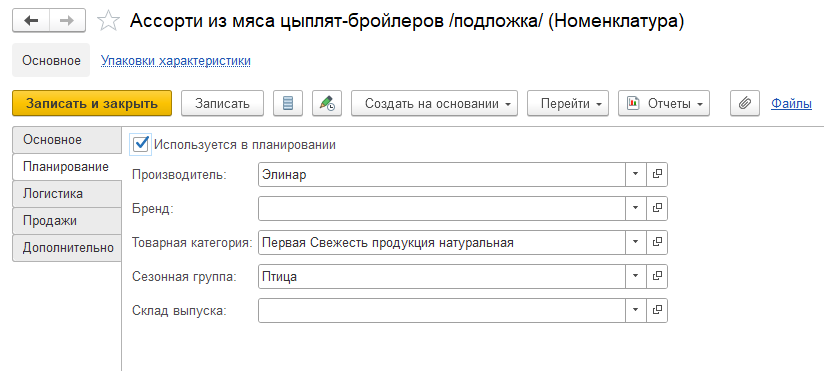
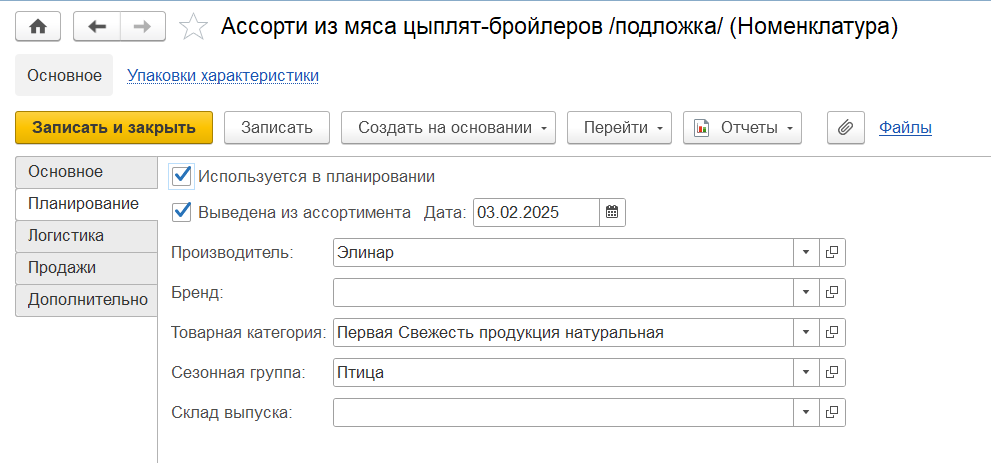
Изменения_1

Changed region(s): [[0.0, 0.2372, 1.0, 0.9191], [0.0, 0.0, 0.9102, 0.0889], [0.0303, 0.1482, 0.3337, 0.2075]]

diff --git a/docs/SCP/ShipmentRequirementsPlanning/NeedsPlanning.md b/docs/SCP/ShipmentRequirementsPlanning/NeedsPlanning.md
@@ -10,7 +10,9 @@
 
 Дата выпуска - это минимально  рекомендованная дата выпуска продукции с учетом срока годности номенклатуры и %ОСГ контрагента.
 
-> Дата выпуска вычисляется по формуле: дата выпуска = дата отгрузки - (100% - %ОСГ контрагента) * срок годности номенклатуры.
+> Дата выпуска вычисляется по формуле: Дата выпуска = дата отгрузки - срок годности + сдвиг даты, 
+
+> где Сдвиг даты = округлить(срок годности * (%ОСГ/100)).
 
  Для каждой номенклатуры будут заполнены поля:
 
@@ -22,7 +24,7 @@
     - По статистике с вытеснением заказами
 
 - Пред. заказы – заполняются на основании документов **"Предварительные заказы"**
-- Заказы – заполняются на основании документов **"Заказы клиентов"**
+- Заказы – заполняются на основании документов **"Заказы клиентов"** (заказы со статусом "Закрыт" не учитываются)
 
 [![2][2]][2]
 
@@ -41,7 +43,7 @@
 - Округлить план до кратности
 - Установить конкретное значение
 
-После выбора варианта заполнения нужно выбрать строки для заполнения, а затем нажать кнопку **"Выполнить"**, будет заполнена колонка **"План"** в таблице.
+После выбора варианта заполнения нужно выбрать строки для заполнения, а затем нажать кнопку **"Выполнить"**, будет заполнена колонка **"План"** в таблице. Если в карточке номенклатуры была указана кратность, а число в колонке "План" выходит не кратным, то оно всегда округляется по кратности номенклатуры в большую сторону. 
 
 [![3][3]][3]
 

diff --git a/docs/CommonInformation/Nomenclature.md b/docs/CommonInformation/Nomenclature.md
@@ -26,6 +26,7 @@
 ![2020-05-28_1239](Nomenclature.assets/2.png)
 
 - Использование в планировании - этот признак устанавливается для той номенклатуры, которая должна попасть в планирование по SKU
+- Для возможности при Планировании потребностей не учитывать номенклатуры, которые выведены из ассортимента, необходимо поставить соответствующую галочку. Дата автоматически проставляется на текущую
 - Производитель
 - Бренд
 - [Товарная категория](РroductCategory.md)
